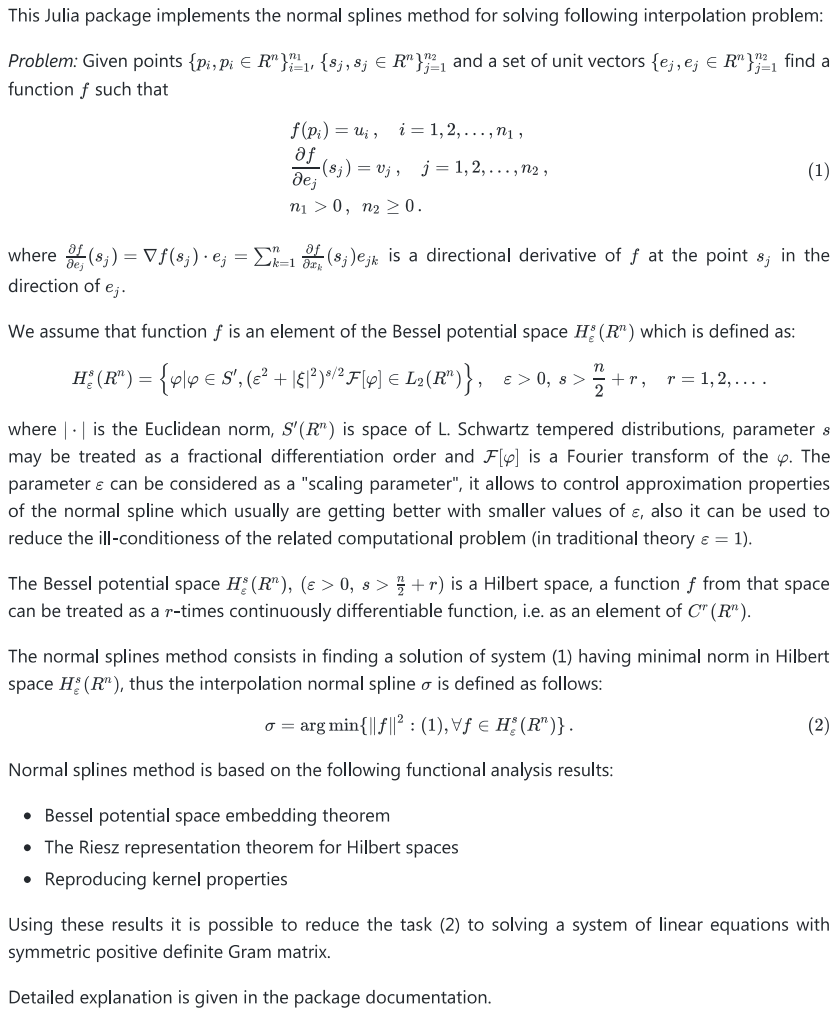
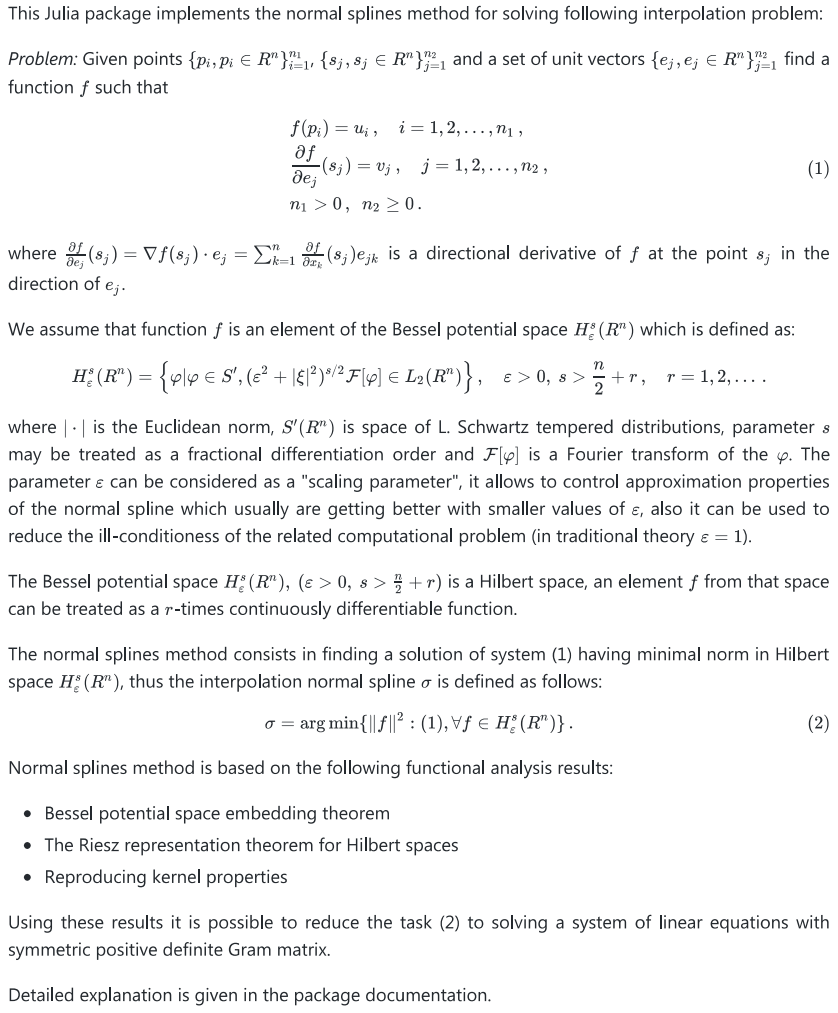
.

diff --git a/images/problem-definition-jl.md b/images/problem-definition-jl.md
@@ -23,7 +23,7 @@ We assume that function ``f`` is an element of the Bessel potential space ``H^s_
 ```
 where ``| \cdot |`` is the Euclidean norm, ``S'  (R^n)`` is space of L. Schwartz tempered distributions, parameter ``s`` may be treated as a fractional differentiation order and ``\mathcal F [\varphi ]`` is a Fourier transform of the ``\varphi``. The parameter ``\varepsilon`` can be considered as a "scaling parameter", it allows to control approximation properties of the normal spline which usually are getting better with smaller values of ``\varepsilon``, also it can be used to reduce the ill-conditioness of the related computational problem (in traditional theory ``\varepsilon = 1``).
 
-The Bessel potential space ``H^s_\varepsilon (R^n), \ (\varepsilon \gt 0 , \ s \gt \frac{n}{2} + r)`` is a Hilbert space, a function ``f`` from that space can be treated as a ``r``-times continuously differentiable function, i.e. as an element of ``C^r (R^n)``.
+The Bessel potential space ``H^s_\varepsilon (R^n), \ (\varepsilon \gt 0 , \ s \gt \frac{n}{2} + r)`` is a Hilbert space, an element ``f`` from that space can be treated as a ``r``-times continuously differentiable function.
 
 The normal splines method consists in finding a solution of system (1) having minimal norm in Hilbert space ``H^s_\varepsilon (R^n)``, thus the interpolation normal spline ``\sigma`` is defined as follows:
 
